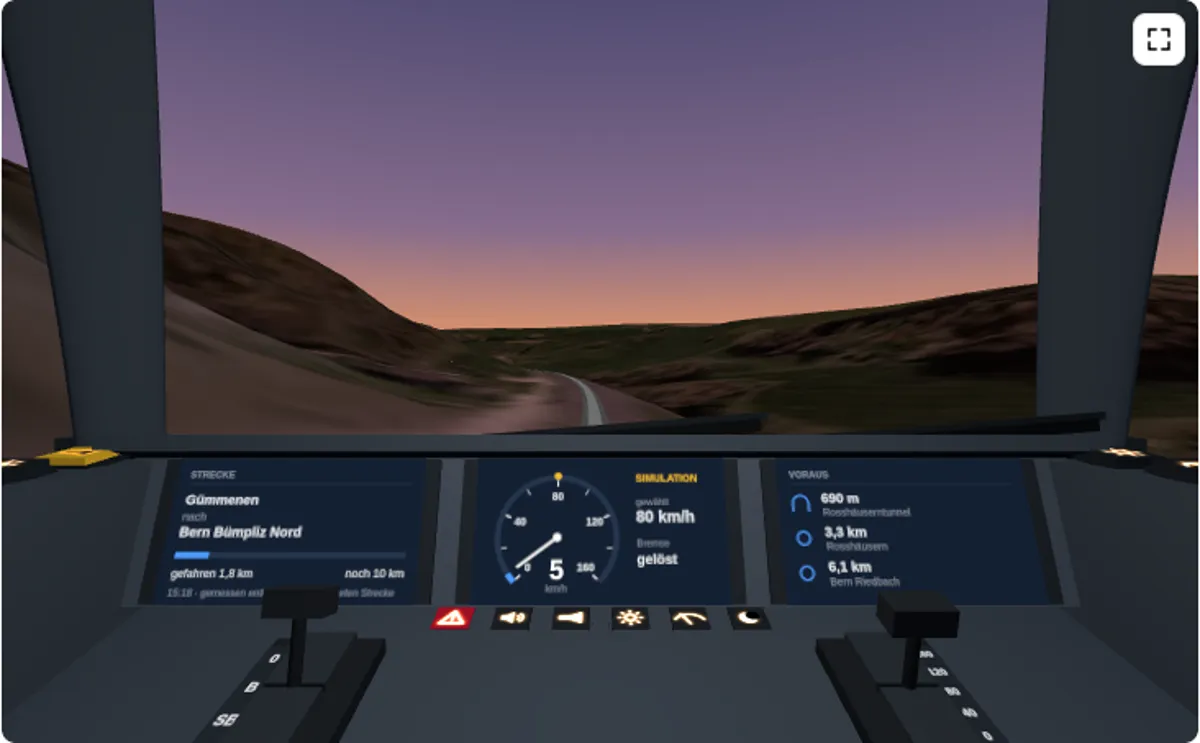
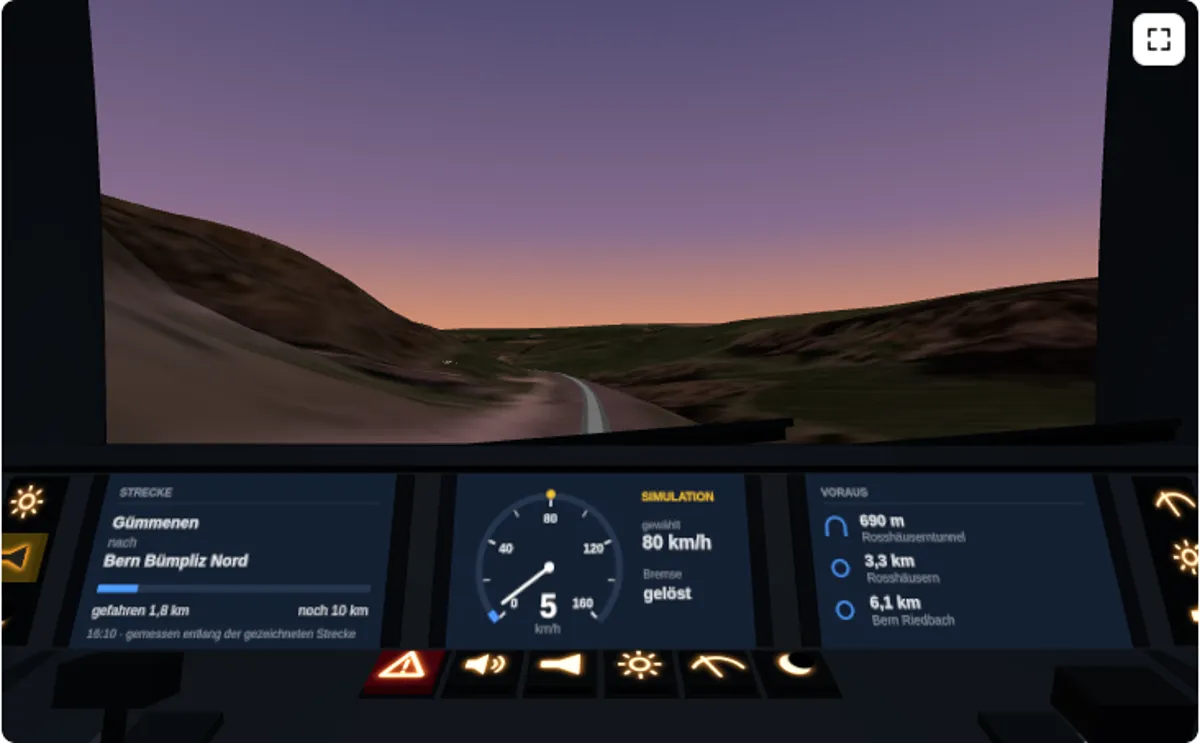
Führerstand: in der Dämmerung und im Tunnel ist das Pult dunkel, Tasten und Anzeigen stechen hervor
Tageslicht im Pult in der Dämmerung auf 12 %, das Pultlicht im Dunkeln auf
8 %; die leuchtenden Zeichen der Tasten und die Anzeigen bleiben hell. Die
Bilder auf taktland.ch zeigen das neue Pult.

Claude-Session: https://claude.ai/code/session_01NmQeKCF7bHq44rvGBQiMKH

diff --git a/web/index.html b/web/index.html
@@ -207,7 +207,7 @@
              alt="Führerstand in Taktland: Pult mit drei Anzeigen, davor die Strecke zwischen Gümmenen und Bern Bümpliz Nord im Gelände." />
           <figcaption>Gümmenen nach Bern Bümpliz Nord, am Tag.</figcaption></figure>
         <figure><img src="./bilder/fuehrerstand-daemmerung.webp" width="1200" height="743" loading="lazy"
-             alt="Derselbe Führerstand in Dämmerungsstimmung, der Himmel rötlich, die Tasten im Pult leuchten." />
+             alt="Derselbe Führerstand in Dämmerungsstimmung: der Himmel rötlich, das Pult dunkel, Tasten und Anzeigen leuchten." />
           <figcaption>Dieselbe Stelle in der Dämmerung.</figcaption></figure>
       </div>
       <p class="klein-leise">Ein Modell, kein Abbild: Wie hoch die Gleise liegen, wie ein Tunnel innen aussieht und wie das Licht

diff --git a/app/src/komponenten/Fuehrerpult.ts b/app/src/komponenten/Fuehrerpult.ts
@@ -427,7 +427,8 @@ export class Fuehrerpult {
     const ausschlag = (1 - Math.cos(t * Math.PI * 2)) / 2 * 1.75
     this.wischerArme.forEach((arm, i) => { arm.rotation.z = (i === 0 ? -1 : -1) * (Math.PI / 2 - 0.08) + ausschlag })
     // im Dunkeln leuchten die Zeichen der Tasten, das Pultlicht ist heller
-    this.licht.intensity = this.pultlicht ? 1.2 + 0.4 * this.nacht : 0
+    // im Dunkeln nur noch ein schwaches Pultlicht, damit die leuchtenden Zeichen und Anzeigen hervorstechen (Michael, 2026-10-13)
+    this.licht.intensity = this.pultlicht ? 1.2 * (1 - 0.92 * this.nacht) : 0
     for (const m of this.leuchten) m.opacity = this.pultlicht ? this.nacht : 0
     // der Zeiger folgt sanft
     const winkel = Math.min(lage.v * 3.6, PULT_HOECHST_KMH + 5)

diff --git a/app/src/komponenten/Relief.tsx b/app/src/komponenten/Relief.tsx
@@ -1417,7 +1417,7 @@ function Szene({ r, h, faktor, weg, wegFarbe, zug: zugVonAussen, blick, brille, 
         szene.background = daemmerung ? daemmerHimmel : tagHimmel
       }
       if (pult) {
-        pult.umgebung((1 - 0.7 * k) * (daemmerung ? 0.35 : 1))
+        pult.umgebung((1 - 0.8 * k) * (daemmerung ? 0.12 : 1))
         // im Tunnel und in der Dämmerung leuchten die Tasten (Michael, 2026-10-13)
         pult.nacht = Math.max(k, daemmerung ? 1 : 0)
       }

diff --git a/CLAUDE.md b/CLAUDE.md
@@ -200,7 +200,7 @@ data/gelaende/  Gelände der ganzen Schweiz (5 km Rand, dazu 3 km neben jeder Ba
              (0 bis 160 in Zehnern), Tasten Schnellbremse, Zuggeräusch, Signalhorn (gerechnet, signalhorn in src/audio.ts), Stirnlicht
              (SpotLight, Stärke 0 statt unsichtbar), Pultlicht, Wischer, Dämmerung (N; Michael, 2026-10-13: gemalter Abendhimmel, Licht von Himmel und
              Sonne auf 30 und 25 %, Sonne rötlich, DAEMMERUNG_* in Relief.tsx, eine Stimmung, keine Tageszeit); im Tunnel und in der Dämmerung leuchten
-             die Zeichen der Tasten warm (Fuehrerpult.nacht); Hover hebt hervor und nennt den Namen, Klick, Tastatur (Pfeile, B, 0,
+             die Zeichen der Tasten warm, das Pult ist dann dunkel (Tageslicht im Pult auf 12 %, Pultlicht auf 8 %), damit sie und die Anzeigen hervorstechen (Fuehrerpult.nacht, Michael, 2026-10-13); Hover hebt hervor und nennt den Namen, Klick, Tastatur (Pfeile, B, 0,
              Leertaste, H, L, P, W, T) und in der Brille Strahl und Abzug, dort A, B Tempo, X, Y Bremse; in der Modellbahn fährt der Zug im
              Führerstand nach dem Pult (Fuehrerpult.schritt: 0,5 m/s² anfahren, 0,3 ausrollen, 0,8 bremsen, 1,4 Schnellbremse, Annahmen ohne
              Quelle, hält vor dem Ende), beim Fahren zeigt der Tacho das Tempo aus dem Fahrtmodus (GPS oder Probefahrt mal Zeitraffer) und die
